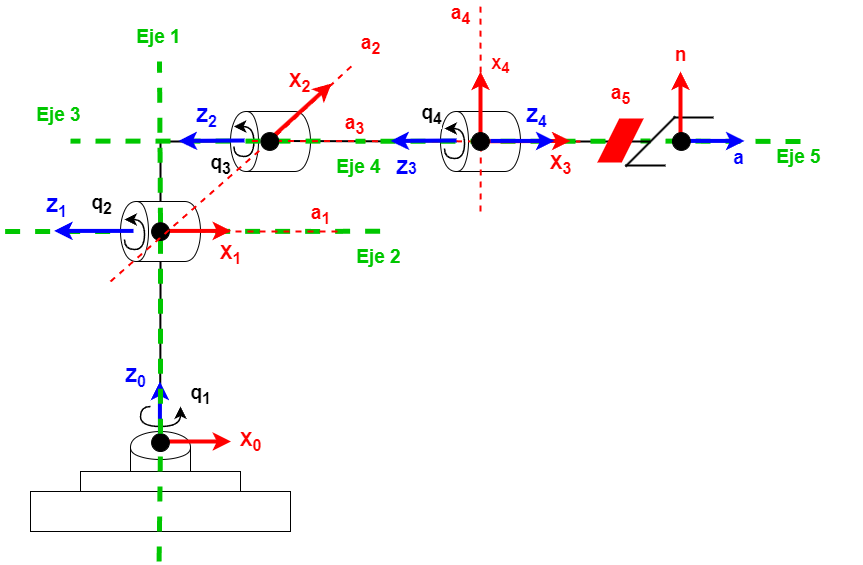
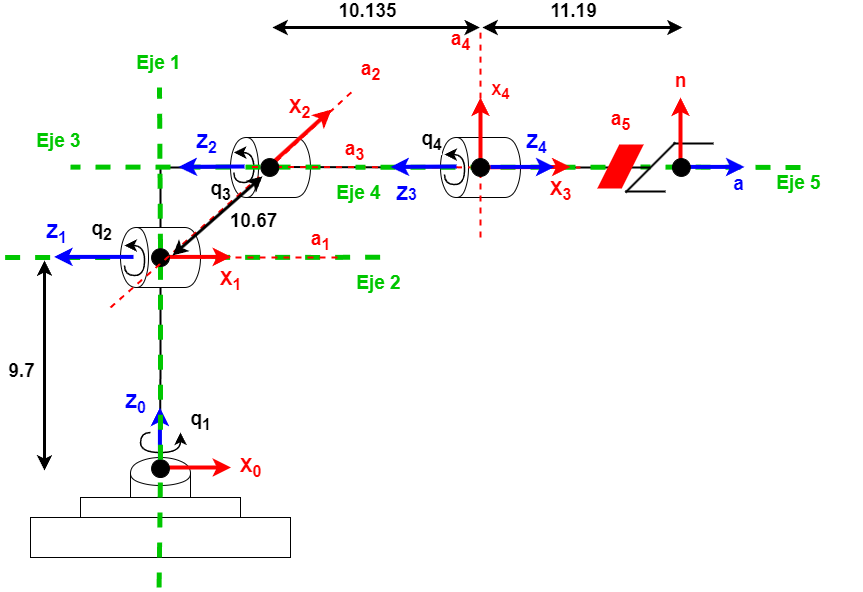
tabla

diff --git a/Práctica 4, Maria Pérez, Yovany Vargas/README.md b/Práctica 4, Maria Pérez, Yovany Vargas/README.md
@@ -112,13 +112,21 @@ Si las recomendaciones y pasos anteriores, fueron correctamente ejecutados el re
 
 # 2. Extracción de parámetros de Denavit-Hartenberg Estándar (DHstd)
 
-| $i$ | $\theta_i$ | $d_i$ (cm) | $a_i$ (cm) | $\alpha_i$ (rad)| $offset$ (rad)|
+En primer lugar se considero a la base como primera articulación, ahorrando un eje en el proceso, la quinta articulación corresponde a la herramienta `tool`. Siguiendo los 7 pasos para la extracción de los parámetros DH, el diagrama resultante que representa al robot *Phantom X* es el siguiente. Ver **Figura 2**.
+
+<span><img id="Fig_2" src="Imágenes/SKDH.png" width="600"/>
+<label for = "Fig_2" ><br><b>Figura 2.</b> Análisis DHstd.</label></span>
+
+Los parámetros se encuentran en la **Tabla 1**, el ángulo entre $a_1$ y $a_2$, es igual en magnitud al ángulo entre $a_2$ y $a_3$, pero en sentido contrario, este es de 71.138°, 1.242 rad.
+
+| $i$ | $\theta_i$ | $d_i$ $(cm)$ | $a_i$ $(cm)$ | $\alpha_i$ $(rad)$| $offset$ $(rad)$|
 |-|-|-|-|-|-|
 | 1 | $\theta_1$  | 9.7  | 0 | $\pi/2$ | 0 |
-| 2 | $-\theta_2$  | 0  | 10.67 | $\pi/2$ | 0 |
-| 3 | $\theta_3$  | 0  | 10.135 | $\pi/2$ | 0 |
-| 4 | $-\theta_4$  | 0  | 0 | $\pi/2$ | 0 |
+| 2 | $-\theta_2$  | 0  | 10.67 | 0 | 1.242 |
+| 3 | $\theta_3$  | 0  | 10.135 | 0 | -1.242 |
+| 4 | $-\theta_4$  | 0  | 0 | $\pi/2$ | $\pi/2$ |
 | 5 | 0 | 11.19 | 0 | 0 | 0 |
+<label for = "Tab_2" ><br><b>Tabla 1.</b> Parámetros DHstd.</label></span>
 
 # 3. Conexión con Python
 
